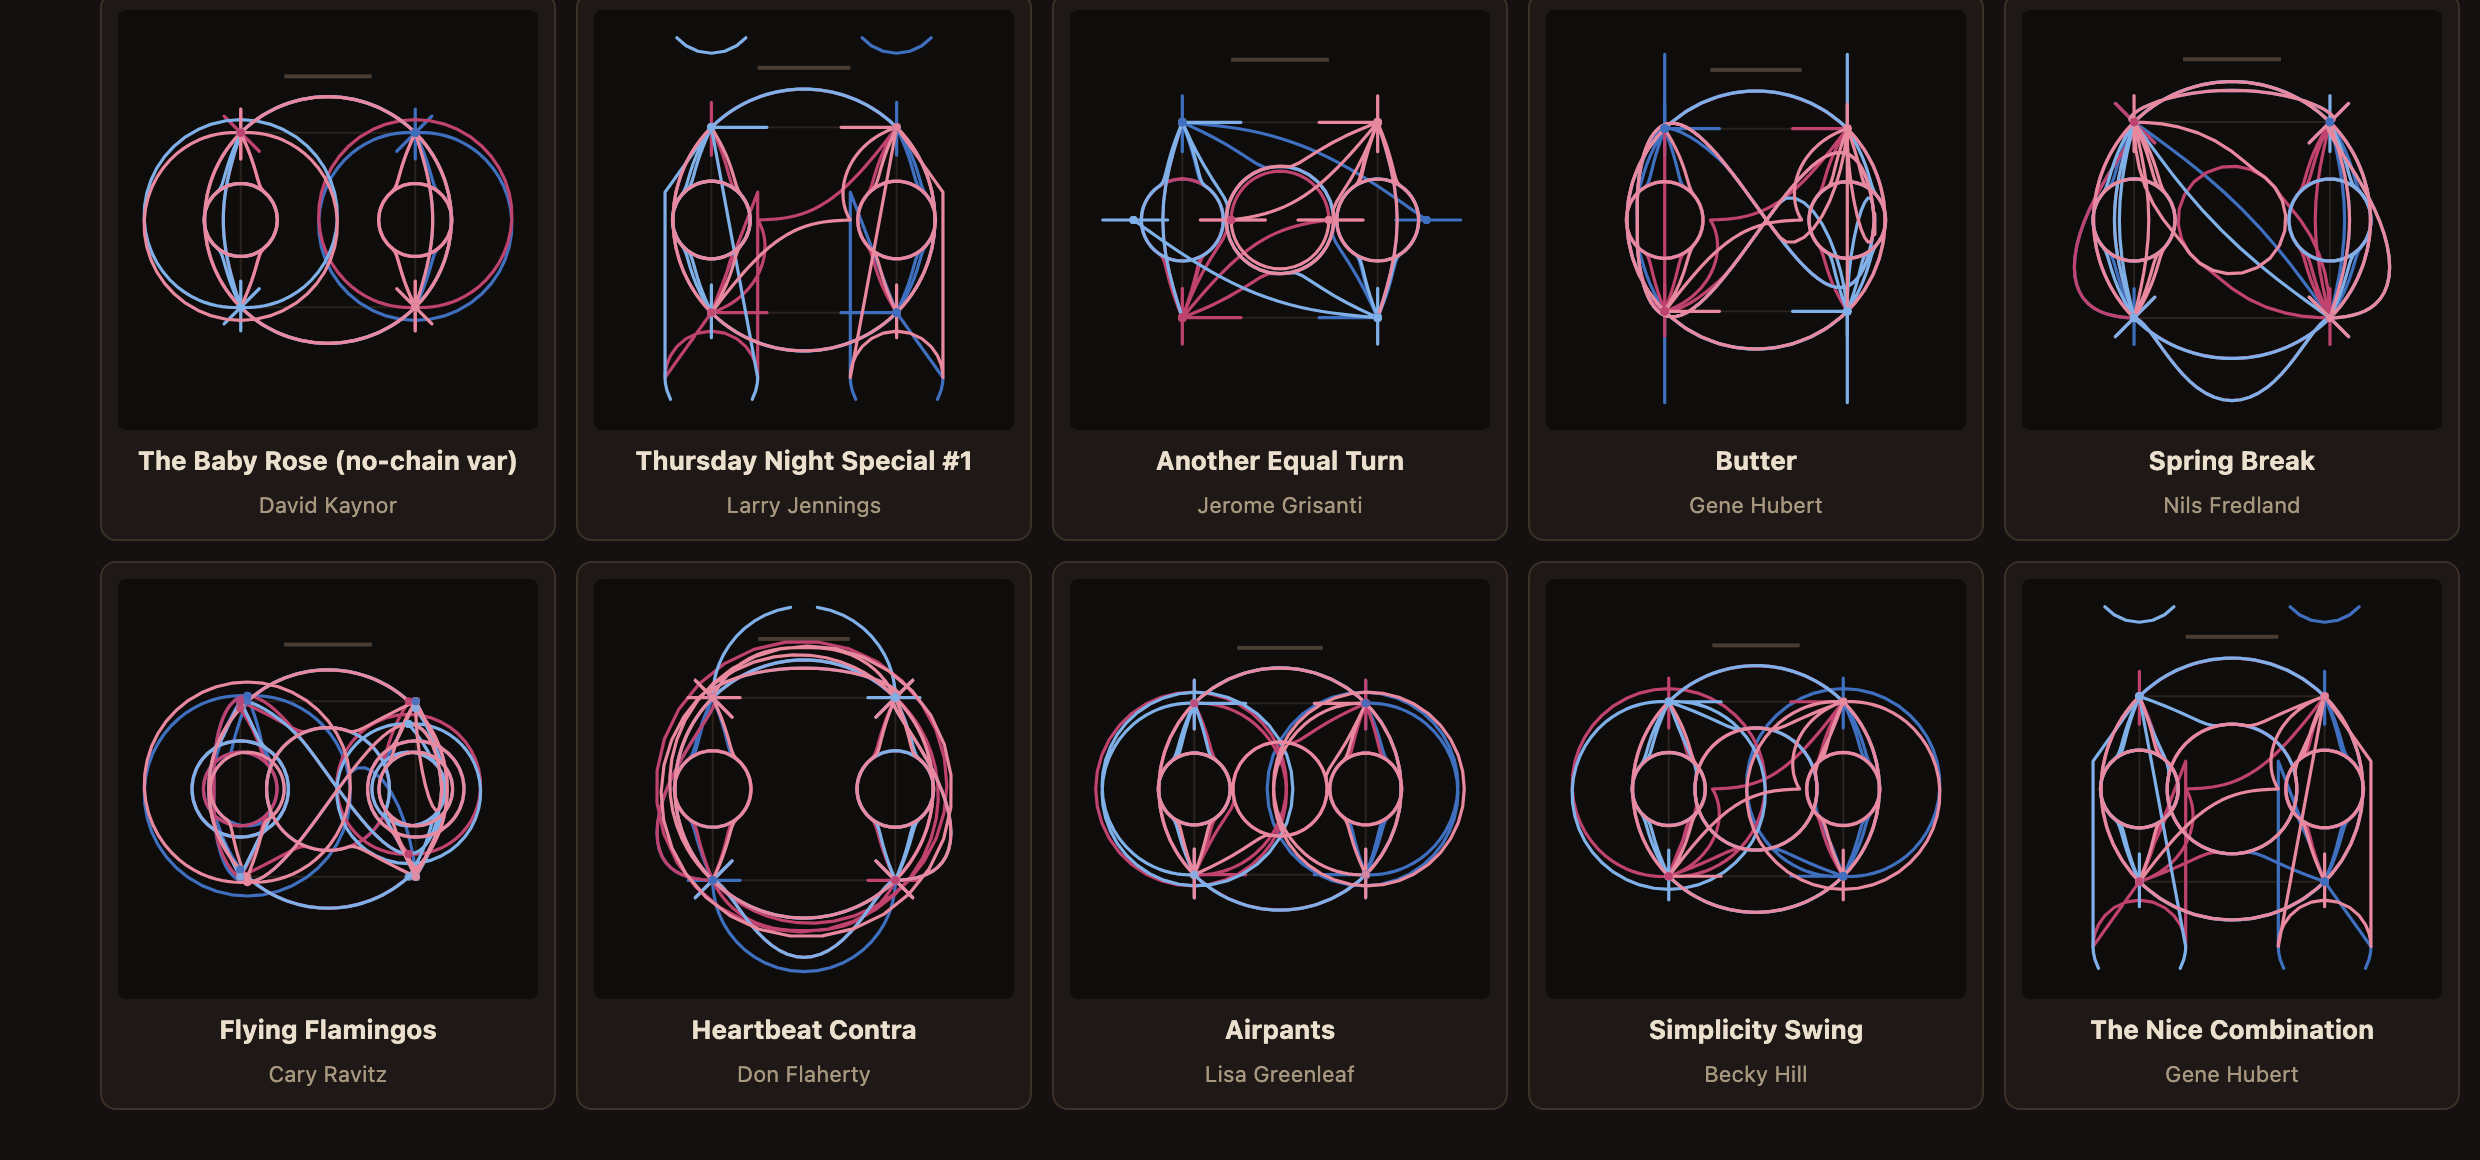
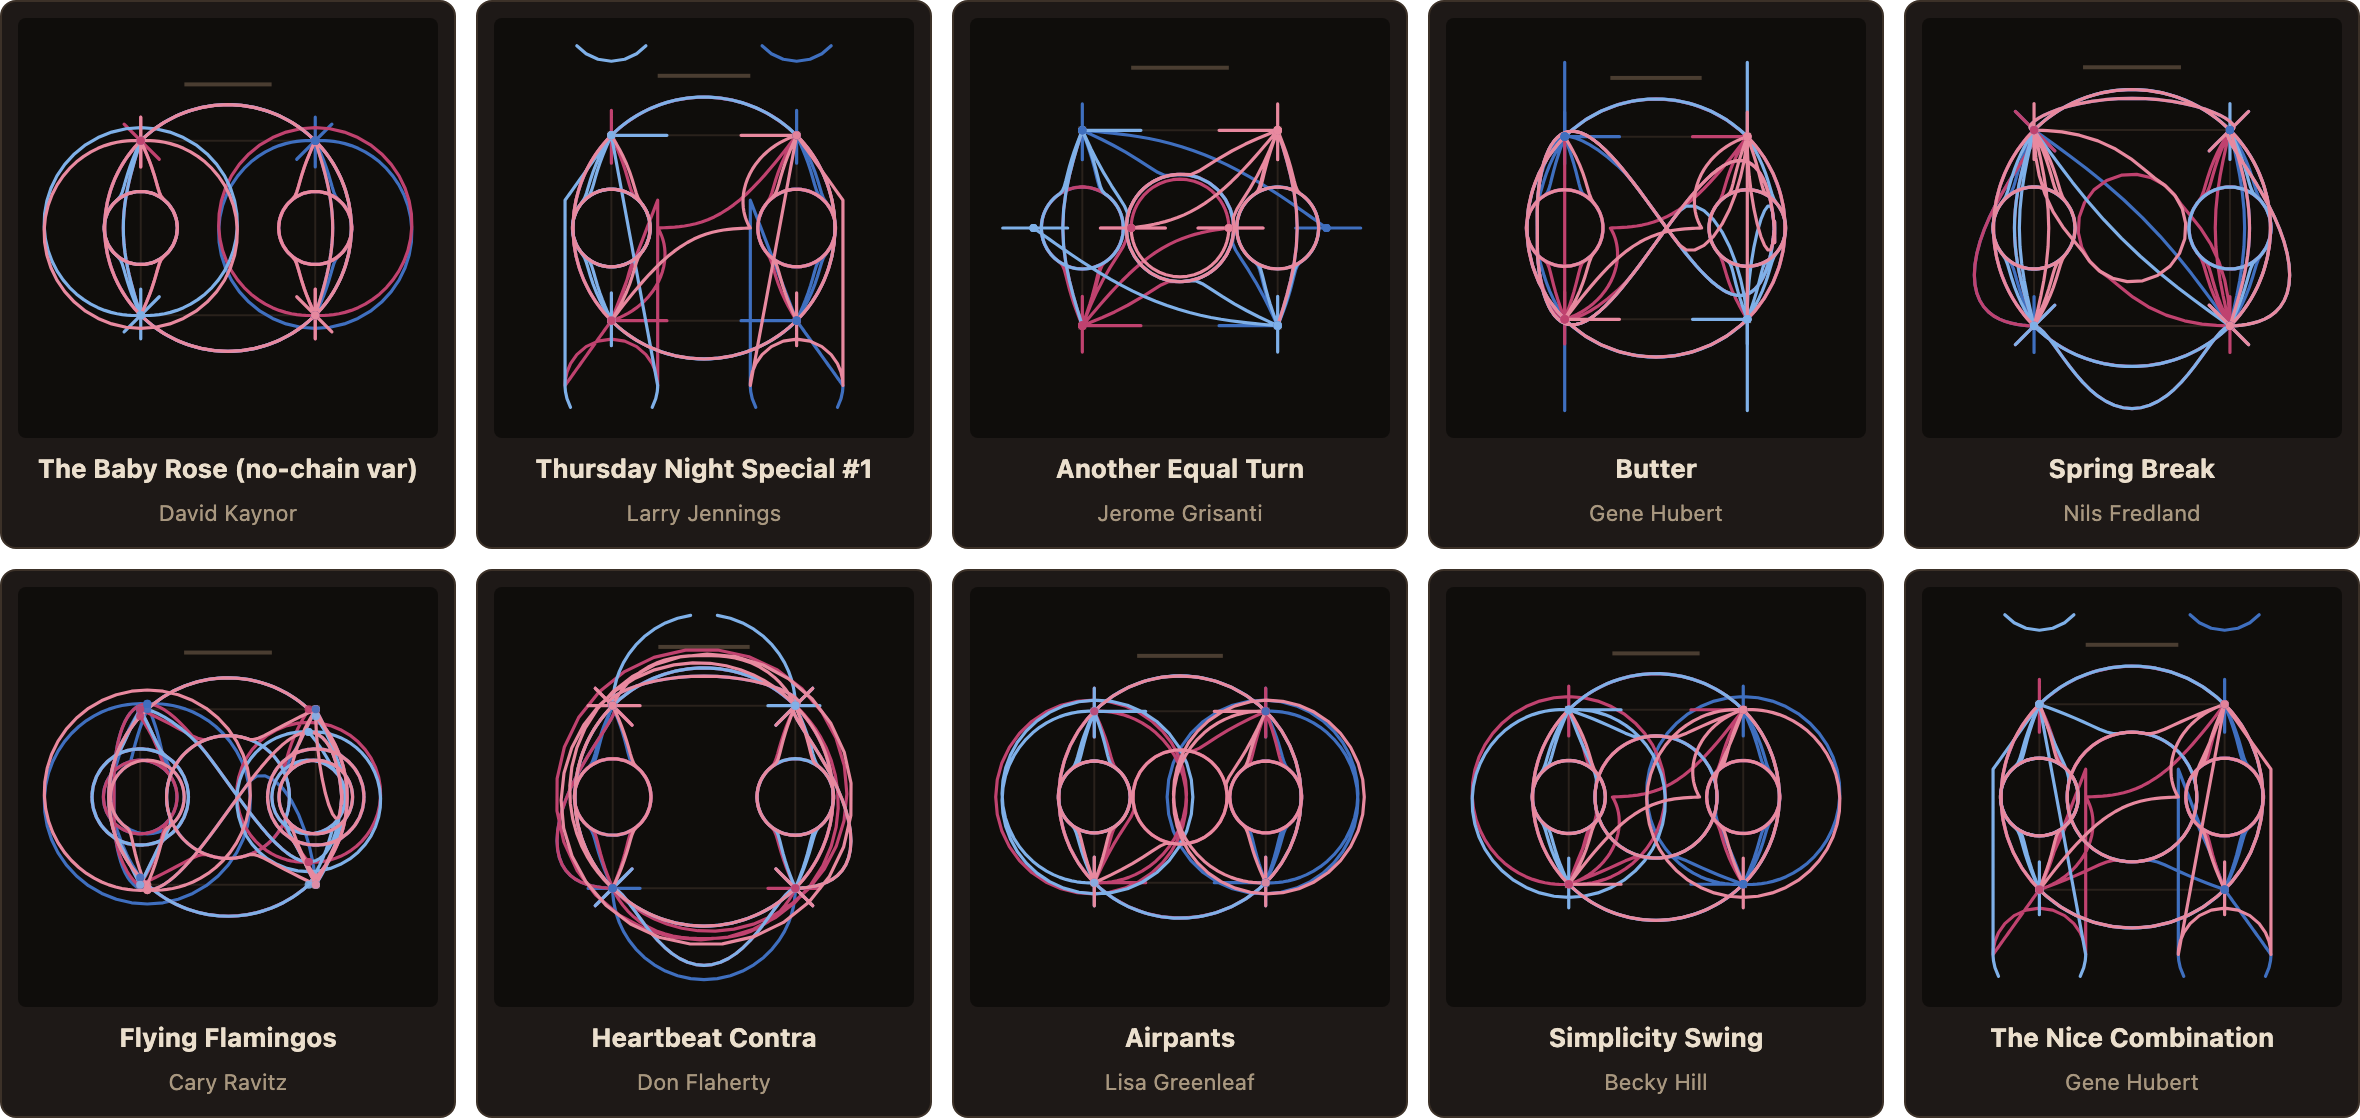
feat(post): Yona's opener and disclaimer; gallery tiles on a transparent background; method section without the disclosure

Changed region(s): [[0.0, 0.0, 1.0, 1.0], [0.4949, 0.0312, 0.5258, 0.0625]]

diff --git a/static/examples/2026-09-13-contra-dance-visual-exploration/index.html b/static/examples/2026-09-13-contra-dance-visual-exploration/index.html
@@ -42,7 +42,7 @@ canvas{display:block}
 .cardread .fig.on{font-weight:700}
 .chips{display:flex;flex-wrap:wrap;gap:3px;margin:6px 0 0;max-width:260px}.chips span{font:10px system-ui,sans-serif;color:#1d1510;padding:1px 5px;border-radius:3px}
 .gallery{display:grid;grid-template-columns:repeat(auto-fill,minmax(200px,1fr));gap:14px}.gallery .g{background:var(--panel);border:1px solid var(--line);border-radius:8px;padding:8px;cursor:pointer;text-align:center}.gallery .g canvas{margin:0 auto;border-radius:4px}.gallery .g b{display:block;font-size:13px;margin-top:6px}.gallery .g span{font-size:11px;color:var(--muted)}
-.shot.gal section:not(#sg){display:none}.shot.gal .gallery{grid-template-columns:repeat(5,1fr);gap:10px;width:1180px}
+body.shot.gal{background:transparent}.shot.gal section:not(#sg){display:none}.shot.gal .gallery{grid-template-columns:repeat(5,1fr);gap:10px;width:1180px}
 .dcard{display:flex;gap:10px;align-items:flex-start;background:var(--bg);padding:8px;width:fit-content}.dcard .dg{text-align:center}.dcard .dg b{display:block;font-size:14px;margin-top:6px}.dcard .dg span{font-size:11px;color:var(--muted)}.dcard .dr{display:flex;flex-direction:column;gap:3px}
 .legend{display:flex;flex-wrap:wrap;gap:4px 10px;font:11px ui-monospace,Menlo,monospace;color:var(--muted);margin:6px 0}
 .legend i{display:inline-block;width:10px;height:10px;border-radius:2px;vertical-align:-1px;margin-right:4px}

diff --git a/content/post/2026-09-13-contra-dance-visual-exploration.md b/content/post/2026-09-13-contra-dance-visual-exploration.md
@@ -12,8 +12,17 @@ tags = [
 
 ![Ten contra dances, each drawn as one picture](/examples/2026-09-13-contra-dance-visual-exploration/img/gallery.png)
 
-Ten contra dances. Each picture is one minor set, four dancers, 64 beats: a pen on every
-dancer, drawing for the length of the dance.
+I've been exploring the idea of visualizing contra dances for the purpose of aiding callers in assembling their programs.
+
+This post is an exploration of the idea and a collection of dances from a recent program I worked on.
+
+The goal is to find a way to help callers, especially newer ones like me, understand the "feeling" of dances visually. 
+
+This work will later be included in a programming tool and dance simulator to help me program dances as well as educate people about what contra dancing is, and how it looks and feels. 
+
+---
+
+**AI Disclaimer:** All code, visuals, and the remainder of this post were created using Claude code and Fable 5.1.
 
 ## The dances
 
@@ -87,11 +96,8 @@ pauses; the arrow keys step a beat.
 
 ## Method
 
-**AI disclosure:** this is a visual exploration of contra dances created using Claude
-Fable 5.1, at my direction, for the purpose of exploring how to build software that helps
-callers program dances. The agent wrote the playground that drew every picture and most of
-this text. The figure shapes are hand-written approximations, not a simulation, so details
-are wrong; the rest of this section says how.
+The figure shapes are hand-written approximations, not a simulation, so details are wrong.
+This section says how.
 
 The canvas is one minor set with the band at the top. Ones start at the top facing down,
 twos at the bottom facing up. Each dancer is a pen: larks blue, robins pink, ones darker.
